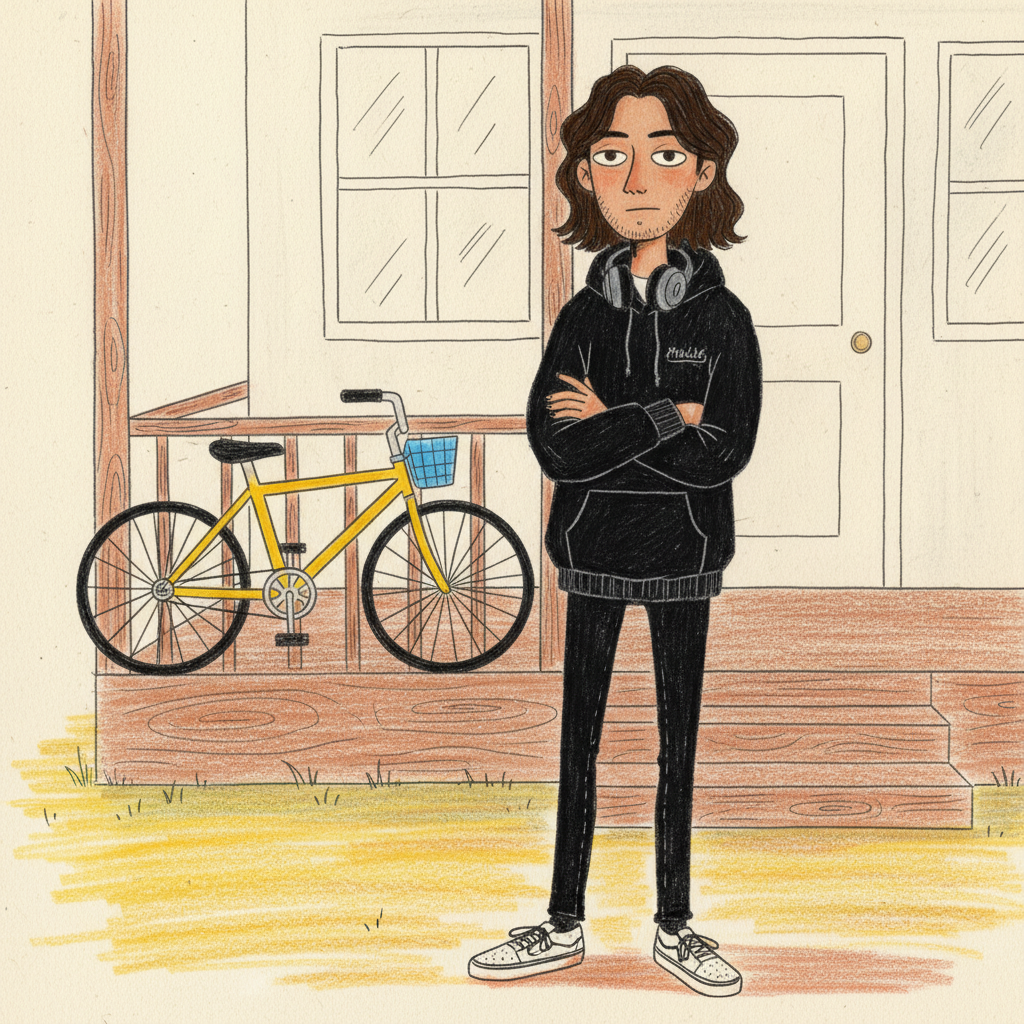
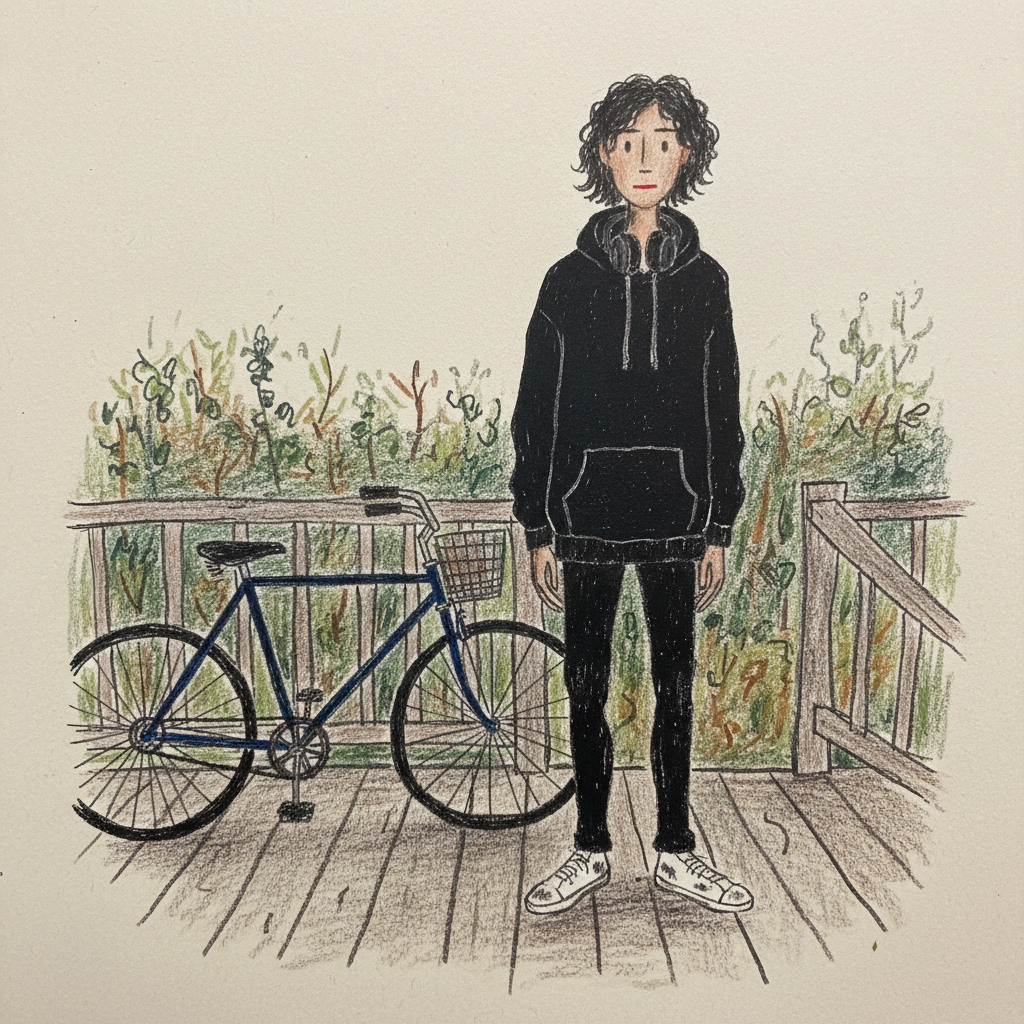
Add spirit doc and rework illustration style to rougher crayon aesthetic
Spirit doc (spirit.md) captures the project's core values: the box as a
place, transparency, open-ended feedback, playfulness tensions, preserving
members' words, and building toward possibility.

Reworked image generation style from polished colored-pencil to primitive
crayon/outsider art. Simplified character prompts, added --file filter to
generate-doc-images, regenerated all portraits and scenes.

diff --git a/callback-box/src/dev/generate-doc-images.ts b/callback-box/src/dev/generate-doc-images.ts
@@ -15,6 +15,7 @@
  *   npm run generate:doc-images -- --type=all      # generate all image types
  *   npm run generate:doc-images -- --type=scene    # generate scene images only
  *   npm run generate:doc-images -- --force         # regenerate all
+ *   npm run generate:doc-images -- --file=diana    # only images matching "diana"
  *   npm run generate:doc-images -- --dry-run       # show what would be generated
  */
 
@@ -278,6 +279,8 @@ async function main() {
   const dryRun = args.includes("--dry-run");
   const filterArg = args.find((a) => a.startsWith("--type="));
   const typeFilter = filterArg ? filterArg.split("=")[1] : "character";
+  const fileArg = args.find((a) => a.startsWith("--file="));
+  const fileFilter = fileArg ? fileArg.split("=")[1] : null;
 
   const config = loadConfig();
 
@@ -311,6 +314,12 @@ async function main() {
     filtered = allPrompts.filter((p) => !p.isCharacter);
   } else {
     filtered = allPrompts.filter((p) => p.tag.startsWith(`type:${typeFilter}`));
+  }
+
+  // Apply file name filter if provided
+  if (fileFilter) {
+    const lower = fileFilter.toLowerCase();
+    filtered = filtered.filter((p) => p.imagePath.toLowerCase().includes(lower));
   }
 
   if (filtered.length === 0) {

diff --git a/callback-box/docs/architecture/spirit.md b/callback-box/docs/architecture/spirit.md
@@ -1,0 +1,101 @@
+# The Spirit of the Thing
+
+This isn't a product spec. It's the set of feelings we're trying to protect as we build.
+
+If something in the architecture contradicts what's written here, the architecture is wrong. If a feature is clever but doesn't feel right, we haven't found the right version of it yet. This document is the compass, not the map.
+
+## It should feel like a place
+
+There's an essay by Tim Hwang and Omar Rizwan called ["The Computer is a Feeling"](https://tinyletter.com/ariadne-discourse/letters/the-computer-is-a-feeling) that gets at something important. Their argument: the best computer systems aren't tools you use and put down — they're places you inhabit. You move around in them. You rearrange the furniture. You know where things are because you put them there, not because someone designed a navigation hierarchy.
+
+A box should feel like that. Not an app you open. A place you're in.
+
+When Diana opens her box at 5:45am in the car outside the pool, she's not "launching an application." She's checking in on a place that's been humming along while she slept. Things happened overnight — Rosa's medication reminder went out, the grocery list got updated because someone finished the last of the rice, James's Thursday shift changed and the calendar adjusted. The box didn't wait for her. It was doing its thing. Now she's here, and she can see what happened, poke at what needs attention, and leave again.
+
+But "see what happened" is doing a lot of work in that sentence. It's not enough for the box to just *be* up-to-date. It has to be able to tell the story of how it got there. Not a changelog — a narrative. "James's new schedule came in last night. He's on evenings Thursday, so I moved Sofia's ride to you. Also Rosa asked about the Costco list and I added the rice she mentioned." The box doesn't just have the current state. It can explain the current state.
+
+And what does Diana actually want to see when she checks in? That's not obvious. It's not even fixed. Some weeks she might want every detail — she's stressed, she doesn't trust that the Thursday schedule is right, she wants to see everything. Other weeks she barely checks in because things have been smooth and she's busy. Then something goes wrong and she's back to wanting the full picture. That fluctuation is normal. The box has to be built to allow it — not a one-way ratchet toward less information, but a relationship where the level of detail is always negotiable.
+
+## You should be able to see the gears
+
+Every system that acts on your behalf should be inspectable. Not in a "developer tools" way — in a "I can see what happened and why" way. And not just for the humans: the box's own agents need to see the gears too. When an agent is figuring out what to do about a scheduling conflict, it should be reading the same history, the same procedure logs, the same chain of decisions that a person would look at. Introspection isn't a feature bolted on for users — it's how the system thinks.
+
+When the box moves Sofia's Tuesday practice to a different ride arrangement, Diana should be able to ask *why* and get an answer that traces back through specifics: "James's new schedule came in — he's on evenings this week, so he can't do the 5:30am drop-off. Last time this happened you asked Martha. I texted Martha on Monday and she confirmed. Here's the thread." The box knows it was James's schedule that changed, knows the history of how this conflict has been solved before, knows who Martha is and that she said yes. Every link in that chain is something you could go look at yourself — the schedule card, the previous procedure run, the message thread.
+
+This means:
+
+- **Every action has a source.** Where did this information come from? A voice memo? An email? A PDF that got synced? You can always trace back.
+- **Every decision has a reason.** Why did the box do this and not that? The reasoning isn't hidden in a model's weights — it's captured in the commit history, in the procedure logs, in the questions the box asked along the way.
+- **History is real history.** Every change is a commit. You can look at what changed, when, and what triggered it. If something went wrong, you can rewind. Not theoretically. Actually.
+
+This is about the box being honest about what it knows and doesn't know. Rosa's evening haziness means she might confirm something she doesn't fully track. A good system acknowledges that — not by refusing to act, but by making it easy for Diana to see what Rosa agreed to and when.
+
+## Feedback is everywhere, and it's not all commands
+
+The principle here is simple: when the box shows you something and you respond, your response shouldn't have to be a command. You might be giving instructions — "don't show me this kind of thing." But you might just be thinking out loud. "Huh, that reminds me, we need to talk about Thanksgiving." Or "I don't really care about this." Or "that's interesting, I want to think about that later."
+
+Right now, concretely, this means that every place the box accepts input should be open-ended. Not a form with fields. Not a thumbs-up/thumbs-down. A place where you can say whatever you're thinking, and the box does its best to figure out what to do with it.
+
+Sometimes what you're thinking is directed feedback. Diana sees a news summary and says "I don't care about this tech stuff" — that's feedback about what she wants to see. Sometimes it's a new thought that happened to be triggered by what the box showed. "Oh, that thing about the school board reminds me, I need to email Janet" — that's not feedback about the news. It's a new thing entirely. And sometimes it's not directed at anything at all. James is scrolling through the week's schedule and mutters "man, I really need to get back in the shop." That's not a task. It's not feedback on the schedule. It's just a thought — maybe wistful, maybe a half-formed intention. The box should hold that too. Make a note. File it somewhere. Don't try to turn it into an action item. Just keep it, because James said it and it meant something to him even if he couldn't tell you exactly what.
+
+The point is: the box shouldn't require you to frame your thought as a command in order for the system to hear it. That's the spirit. How well we live up to it will vary — some interactions will be more structured than others, and the box won't always interpret things correctly. But the aspiration is that input surfaces are open, not narrow.
+
+Over time, this also matters for how processes improve. The Lund-Vegas have a recurring problem: James gets his shift schedule two weeks out. When he's on evening shifts, he can't do the 5:30am swim drop-off for Sofia. Diana covers, but she has a board meeting every other Tuesday morning, which means those Tuesday drop-offs are genuinely unsolved. They've been solving it ad hoc — texting Rosa's neighbor, asking Mateo (unreliable), occasionally just skipping practice.
+
+The feedback that could eventually improve this process isn't someone sitting down and saying "change the procedure." It's Diana saying "ugh, Tuesday again" when the conflict comes up. It's the box noticing that the last three times this happened, Martha ended up driving. It's Sofia mentioning that Martha said she doesn't mind mornings. In the long run, those incidental inputs are what should let the system get smarter — to eventually suggest that maybe Martha should just be the default for those days. We're not there yet. But the architecture should make it possible by keeping those inputs around rather than discarding everything that isn't a direct command.
+
+## It should be playful, even about mundane things
+
+A system that handles real complexity — five people's overlapping schedules, a grandmother's medication tracking, a teenager's unknowable social calendar — doesn't have to feel like enterprise software. Rigor and playfulness aren't opposites. You can handle the complexity seriously while finding ways to make the experience of using it feel lighter, more alive.
+
+But there's a real tension here that we haven't solved. AI can generate puns, add exclamation points, pepper in emoji. That's glibness. Real playfulness comes from knowing someone, from shared experience, from the specific absurdity of *this* family's life. The AI doesn't have that experience directly. It has records of it. It knows that James's schedule PDF has changed format three times this year, and it knows that the Costco list is a weekly negotiation, but it doesn't *feel* the humor in those things the way the family does.
+
+How do you let the system be warm and human-scaled without being false? We don't have a complete answer yet. Some things are clearer:
+
+Being specific rather than generic goes a long way. "I couldn't parse James's schedule PDF this week — it looks like they changed the format again. Here's what I think it says, but check the Thursday evening shift, it might be wrong" is honest and human-scaled without trying to be funny. The specificity *is* the warmth. It shows the box knows this particular situation, this recurring annoyance, this family's life.
+
+Stock cheerfulness is worse than nothing. "Great news! I've optimized your schedule!" is worse than saying nothing. So is "Oops! Something went wrong 😅." If the box doesn't have something real to say, it should just be plain and clear.
+
+But there's a third path beyond "be specific" and "don't be fake." The family's own playfulness can be reflected back to them — not stolen, but surfaced. Sofia is playful. She names her sourdough starters. She writes in her journal with illustrations. When the box interacts with someone else about something Sofia touched, that playfulness can authentically come through in the material. It's not the AI being funny — it's Sofia's personality showing up because her stuff is in the system and it carries her voice.
+
+And maybe there are places where the AI can be authentically playful on its own terms — things of its own imagination, its own way of seeing. We have to find ways that actually *are* authentic, not performed. That's an open problem. When Sofia asks the box "how do suspension bridges work?" at 9pm on a Tuesday, the interesting question is what kind of answer she's looking for. She went deep on fermentation last month. She keeps a journal. She watches YouTube videos and checks out library books. The box could try to figure out whether this is a quick curiosity or the start of another deep dive — and calibrate based on how she responds. That kind of attentiveness is itself a form of care, even if it never cracks a joke.
+
+## The best stuff comes from the people
+
+The most important things in the box aren't the AI's ideas. They're not the emails that arrived or the notifications that fired. They're the things the box's members said, thought, decided, and made. Diana's voice memo at 5:45am. Rosa's story about her grandmother's kitchen in Oaxaca. Sofia's journal entry about how trusses work. James's notes on steam-bending cedar. The box's job is to collect, preserve, and organize those things — not to replace them with its own version.
+
+This means respecting members' words. When Diana records a voice memo rattling off weekend plans mixed with a thought about the mural project mixed with a reminder to call her sister, the box has to sort that out. But it should keep her language as much as possible. Reformat, sure — add punctuation, break it into pieces, file things where they belong. But don't smooth it out into professional-speak. If she said "ugh, the Costco thing, we need to figure that out before Saturday," that's what should be in the system — not cleaned up, not made to sound more organized than it was. The transcript is the record. Her words are the source.
+
+And nothing should just disappear. If someone says something and the box doesn't know what to do with it — it doesn't fit a category, it's not an action item, it's not a question — it should still go somewhere. Put it in a note. Tag it as unprocessed. But don't drop it on the floor. There's a reason the person said it, even if neither they nor the box can articulate what that reason is right now. Maybe it'll make sense later. Maybe it won't. But it shouldn't be lost. (There are cases where we do discard things — an empty transcript, an accidental recording, a butt-dial. But that's because we believe the input itself was an error, not because we don't understand the content.)
+
+This extends to how the box handles external inputs too. James's schedule comes as a photo of a posted paper schedule. The box should parse that into structured data — actual dates and shifts — and when it does, it creates the changelog that the original source was missing. Now there's a diff: last week James worked days on Thursday, this week he's on evenings. That structured data is something the box made, and it's genuinely useful. The photo is the source; the parsed version is the box's interpretation, and it should be honest about that. (The photo itself doesn't need to be kept forever — once the data is extracted and verified, cleaning up boring source artifacts is fine.)
+
+The general principle: don't fake things. Don't invent knowledge. Don't put words in people's mouths. Don't pretend to know things you don't. The box is powerful because it's good at organizing and connecting what the people in it actually say and do — not because it generates plausible content to fill gaps.
+
+## Messy is fine. Messy is expected.
+
+The Lund-Vega household doesn't run on clean data. James's work schedule arrives as a photo of a posted paper schedule. Rosa's family stories are in Oaxacan Spanish with no timestamps. Mateo's social calendar exists only in his head (and Discord). Sofia's swim schedule is a PDF that gets updated monthly with no changelog.
+
+The box has to work with all of that. Not by demanding clean inputs, but by doing its best with what it gets and being honest about uncertainty. "I think James works Thursday evening but the photo was blurry — can you confirm?" is a perfectly good system output. Better than silently guessing. Better than refusing to process it.
+
+This philosophy runs deep. Cards are validated against schemas — we do want them structurally sound — but schemas include escape valves, fields that can hold ad hoc information. Procedures can have ambiguous steps that require judgment. Questions can go unanswered for days — and at some point the box should figure out that the question is moot and move on, rather than nagging forever. The box should be able to store and work with knowledge that's incomplete, uncertain, or just a guess. "James probably works Thursday evening" is useful information even if it's not confirmed. "Rosa mentioned something about a doctor's appointment next week but I'm not sure which day" is worth keeping. The box should have ways to represent confidence levels, to mark things as unverified, to hold onto partial information and use it appropriately rather than either discarding it or treating it as fact. Evidence tracking isn't just about knowing what happened — it's about understanding the limits of what we know.
+
+The box degrades gracefully because it's designed around the assumption that things will be incomplete, late, contradictory, and in multiple languages. That's not a failure mode. That's Tuesday.
+
+## It should feel possible
+
+The most important feeling the box should produce — in users, in developers, in anyone who encounters it — is *possibility*. Not "look at all the features." More like: "oh, I could make it do *that*?"
+
+Kathy Sierra's [Badass: Making Users Awesome](https://www.goodreads.com/book/show/24737268-badass) is about this — the goal isn't to make people excited about the tool, it's to make people excited about what *they* can do. The box should make Diana feel like she's surprisingly good at organizing her life. It should make James feel like he's actually keeping a build journal, something he'd never have done on his own. It should make Rosa feel like her stories are being preserved in a way that matters. The excitement is about what they're accomplishing, not about the software. And it should feel like theirs because it *is* theirs. The box didn't write Rosa's stories. It didn't plan Diana's week. It held the pieces and helped them come together, but the substance came from the people.
+
+When Diana realizes she could have the box listen to her voice memos and automatically extract action items and add them to the right lists — not because someone built a "voice memo action item extractor" feature, but because the pieces are all there and she just has to describe what she wants — that's the feeling. When James realizes he could have the box track his canoe build progress through photos and voice notes, creating a build journal he never would have maintained manually — that's the feeling. When Rosa realizes her recorded family stories could be transcribed, translated, and organized into something her grandchildren can actually browse — that's the feeling.
+
+The architecture should make these things *obviously possible* to anyone who understands the pieces. We're building with primitives — cards hold data, procedures define processes, connectors bring things in and out, agents make decisions, the filesystem is the truth, Git is the history, everything is inspectable — and those primitives should be legible to both people and agents. When James wants to understand how the swim schedule sync works, he can look at the cards and the procedure and follow the chain. When an agent needs to figure out how to handle a new kind of input, it can look at the same primitives and figure out where things go.
+
+We're still figuring out what the right primitives are. That's part of the work. The hard part isn't building any one feature — it's finding the building blocks that are simple enough to understand, flexible enough to combine, and powerful enough that interesting things emerge when you put them together.
+
+---
+
+![Diana | Diana in her car in a parking lot, engine off, using the ten minutes between dropping off Sofia at swim practice and a morning meeting to record a voice memo on her phone. Her other hand holds coffee. The back seat has a reusable grocery bag, a binder from a school board meeting, and Sofia's swim bag that didn't make it inside. It's still dark out. 5:45am.](images/diana-car-dawn.png)
+
+*5:45am. Sofia's at the pool. The board meeting is at 7:30. Diana has exactly this window to think out loud into her phone about the weekend, and the box will be listening, sorting, asking the right questions later. Not right now. Later, when she has a minute. That's the whole idea.*

diff --git a/callback-box/docs/architecture/family.md b/callback-box/docs/architecture/family.md
@@ -6,7 +6,7 @@ These aren't archetypes. They're people with specific textures. When writing exa
 
 ## Diana Vega (42)
 
-![type:character Diana | Full-body portrait of Diana Vega, a 42-year-old Latina woman standing in a relaxed pose on a sidewalk in a residential Minneapolis neighborhood. She's 5'6", medium build, with thick dark brown hair pulled back in a low ponytail that's coming slightly loose. Warm brown skin, brown eyes, laugh lines. She's wearing a navy blue puffer vest over a rust-colored long-sleeve henley, dark jeans, and well-worn brown ankle boots. A canvas tote bag over one shoulder, phone in her back pocket. Her expression is warm and a little distracted, like she's already thinking about the next thing. Late afternoon autumn light.](images/diana-portrait.png)
+![type:character Diana | A woman standing on a sidewalk, autumn trees and houses behind her. Dark hair in a loose ponytail, brown skin. Navy puffer vest over a rust henley, jeans, brown boots. Canvas tote over one shoulder. Her face is drawn with just a few crayon marks — two dots for eyes, a short line for a mouth. No detailed facial features at all. The whole figure should look like it was colored in with wax crayons by a careful adult.](images/diana-portrait.png)
 
 Runs operations for a mid-size nonprofit that does immigrant services and community organizing. Her job bleeds into everything — she's on the board of Mateo's school, she organizes a monthly neighborhood potluck that started small and now involves 40 people, and she just agreed to coordinate a community mural project on 38th Street. She doesn't say no to things. It's not that she can't — it's that she genuinely believes she can fit it in, and she's usually almost right.
 
@@ -16,7 +16,7 @@ Warm. Competent. Slightly manic. Makes incredible pozole when she has time, whic
 
 ## James Lund (44)
 
-![type:character James | Full-body portrait of James Lund, a 44-year-old white man standing in his driveway next to a garage. He's 6'1", lean and slightly long-limbed, with sandy brown hair that's thinning a bit on top, kept short. Light blue eyes behind rectangular wire-frame glasses. A few days of stubble. He's wearing a faded gray t-shirt, olive green cargo pants with a tape measure clipped to the pocket, and scuffed New Balance sneakers. His hands are relaxed at his sides. His expression is gentle and slightly amused, like someone just said something interesting. Overcast morning light, a Minnesota bungalow garage behind him.](images/james-portrait.png)
+![type:character James | A tall, lean man standing in a driveway next to a garage. Sandy brown hair, thinning, kept short. Wire-frame glasses. Faded gray t-shirt, olive cargo pants with a tape measure clipped to the pocket, scuffed sneakers. His face is drawn with just a few crayon marks — two dots for eyes, a short line for a mouth. No detailed facial features. The whole figure should look like it was colored in with wax crayons by a careful adult. Overcast morning, a bungalow garage behind him.](images/james-portrait.png)
 
 Works as a radiology tech at Hennepin Healthcare. The job means shift work — sometimes days, sometimes evenings, occasional overnights. The schedule comes out two weeks ahead and it's never the same pattern twice. When he's on a run of evening shifts, he's the one doing school pickup but unavailable for dinner. When he's on days, he's home by 4 but wrecked. The schedule makes everything else harder to plan.
 
@@ -26,7 +26,7 @@ Gentle. Funny. The kind of person who'll spend 40 minutes explaining why a parti
 
 ## Mateo (16)
 
-![type:character Mateo | Full-body portrait of Mateo Lund-Vega, a 16-year-old mixed-race teenage boy (Latina mother, white father) standing on a front porch. He's 5'10" and still growing into his frame — lanky, narrow shoulders, big hands. Dark brown wavy hair that falls past his ears, brown eyes, light brown skin, the start of a patchy attempt at sideburns. He's wearing an oversized black hoodie with a small band logo on the chest, slim black jeans, and beat-up white Vans. Black headphones hang around his neck. His posture is slightly slouched, weight on one foot, arms crossed loosely. His expression is neutral-to-skeptical, the default face of a teenager who just woke up. Late morning light on a residential porch with a bike leaning against the railing.](images/mateo-portrait.png)
+![type:character Mateo | A lanky teenage boy standing on a front porch, slouching. Dark wavy hair past his ears, light brown skin. Oversized black hoodie, slim black jeans, beat-up white sneakers. Headphones around his neck. A bike leaning against the porch railing. His face is drawn with just a few crayon marks — two dots for eyes, a short line for a mouth. No detailed facial features. The whole figure should look like it was colored in with wax crayons by a careful adult.](images/mateo-portrait.png)
 
 Junior at South High. Plays bass in a band called Parking Ramp that practices in his friend Dev's basement. Their music is — well, they're 16. He's up until 1am most nights, partly Discord, partly messing around with music production software, partly group chats that are somehow urgent. Asleep until noon on weekends unless someone physically intervenes.
 
@@ -36,7 +36,7 @@ He's the one who'd use the system in ways nobody anticipated, if he used it at a
 
 ## Sofia (11)
 
-![type:character Sofia | Full-body portrait of Sofia Lund-Vega, an 11-year-old mixed-race girl (Latina mother, white father) standing in a backyard garden. She's 4'11", athletic build from swimming, with long straight dark brown hair in a single braid down her back. Brown eyes, light brown skin with a few freckles across her nose. She's wearing a teal zip-up hoodie over a one-piece swimsuit (the straps just visible at the neckline), gray jogger pants, and rainbow-striped slides. She's holding a composition notebook against her chest with one arm. Her expression is direct and slightly evaluating — the look of a kid deciding whether what you just said is actually true. Afternoon light in a backyard garden with tomato cages and marigolds behind her.](images/sofia-portrait.png)
+![type:character Sofia | An eleven-year-old girl, small, standing in a backyard garden. Dark brown hair in a braid, light brown skin. She is clearly a child, not a teenager. Teal zip hoodie over a swimsuit, gray jogger pants, rainbow slides. Holding a composition notebook against her chest. Tomato cages and marigolds behind her. Her face is drawn with just a few crayon marks — two dots for eyes, a short line for a mouth. No detailed facial features. The whole figure should look like it was colored in with wax crayons by a careful adult.](images/sofia-portrait.png)
 
 Sixth grade at Sanford Middle School. Competitive swimmer — practices at 5:30am Tuesday and Thursday at the Nokomis community pool, meets on weekends. This means Diana or James has to be up at 5:15 twice a week, which is a recurring source of household negotiation that gets extra complicated when James is on evening shifts.
 
@@ -46,7 +46,7 @@ Recently started cooking from YouTube videos, with mixed results and a lot of di
 
 ## Rosa Vega (74)
 
-![type:character Rosa | Full-body portrait of Rosa Vega, a 74-year-old Mexican woman standing in a bright kitchen. She's 5'2", small-framed but upright, with white hair cut short and practical. Brown skin, deep brown eyes, reading glasses hanging from a chain around her neck. She's wearing a denim jacket over a striped blouse, dark slacks, and comfortable walking shoes. She's holding a newspaper in one hand, folded to the crossword. Her expression is direct and a little wry — not sweet, not soft, just present and paying attention. Morning light from a window, a potted plant on the counter behind her.](images/rosa-portrait.png)
+![type:character Rosa | A small, upright older woman standing in a kitchen. White hair cut short, brown skin. Reading glasses on a chain around her neck. Denim jacket over a striped blouse, dark slacks, comfortable shoes. Holding a folded newspaper. Morning light from a window, a potted plant on the counter. Her face is drawn with just a few crayon marks — two dots for eyes, a short line for a mouth. No detailed facial features. The whole figure should look like it was colored in with wax crayons by a careful adult.](images/rosa-portrait.png)
 
 Diana's mother. Lives in the lower-level apartment (the bungalow has a walkout basement that was converted years ago). Grew up outside Oaxaca, met a Minnesotan who was teaching English through a church volunteer program in Mexico, came to Minnesota at 28. Widowed at 55. Stayed because by then her life was here — Diana, the grandkids, the neighborhood.
 
